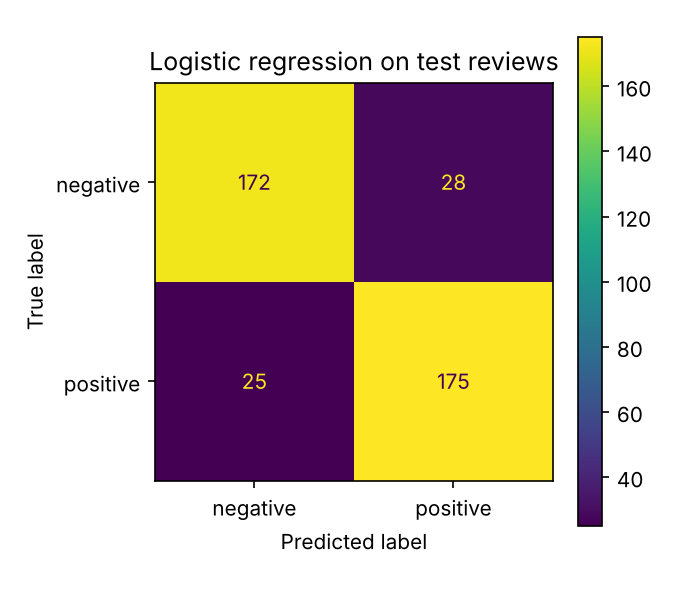
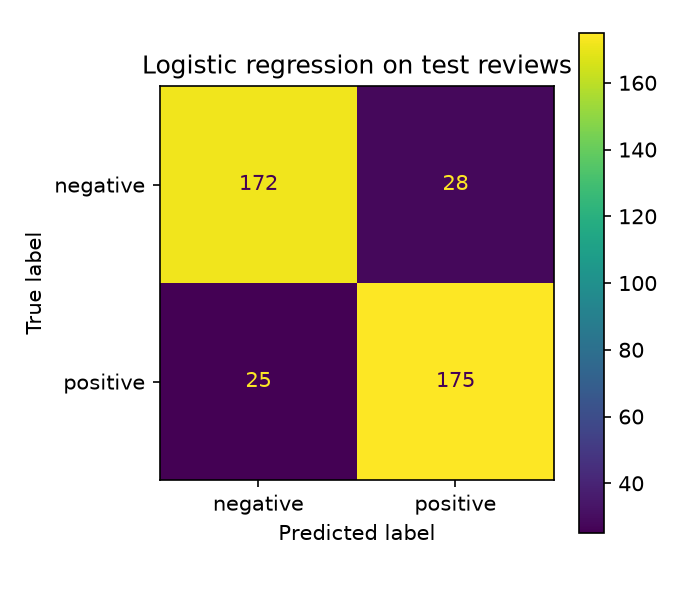
Show charts in README

diff --git a/README.md b/README.md
@@ -52,3 +52,11 @@ reports/             metrics, confusion matrix, top terms, errors
 - Small corpus of older, long-form reviews. Short modern text such as tweets or product reviews would likely score worse.
 - Bag-of-words features cannot follow sarcasm or negation across a sentence.
 - A transformer model would probably score higher. This project is meant as a clear, checked baseline that a team can read and extend.
+
+## Charts and reports
+
+Confusion matrix for the logistic model on the 400 test reviews:
+
+![Confusion matrix](reports/confusion_matrix_logistic.png)
+
+Other files in `reports/`: [top positive words](reports/top_positive_terms.csv), [top negative words](reports/top_negative_terms.csv), and [the 53 misclassified reviews](reports/errors.csv).
